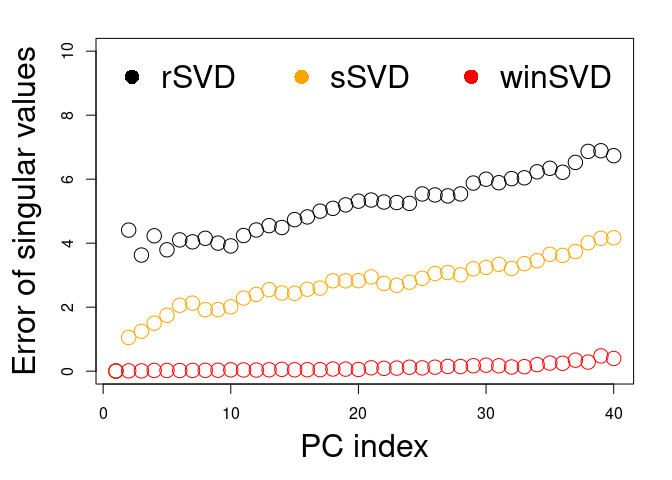
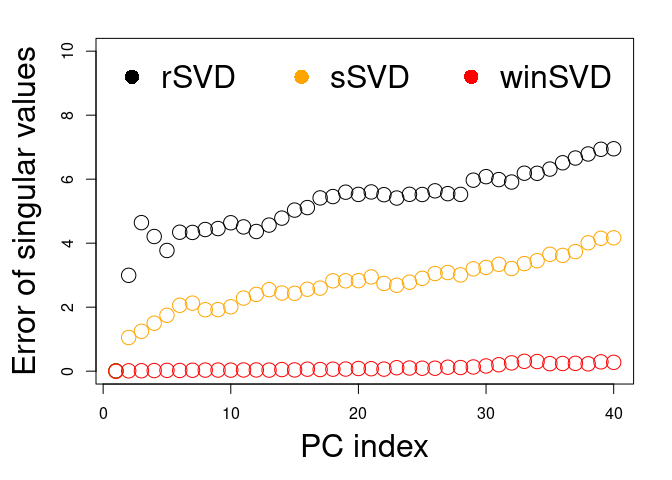
doc data

diff --git a/README.md b/README.md
@@ -8,11 +8,12 @@
 There are 3 versions of RSVD implemented in this package, which are
 ordered by their accuracy.
 
-  - **winSVD: window based randomized singular value decomposition**
+  - **winSVD**: [window based randomized singular value
+    decomposition](https://genome.cshlp.org/content/33/9/1599)
   - **dashSVD**: randomized singular value decomposition with dynamic
     shifted eigenvalues
-  - **sSVD**: single pass randomized singular value decomposition with
-    power iterations
+  - **sSVD**: [single pass randomized singular value decomposition with
+    power iterations](https://genome.cshlp.org/content/33/9/1599)
 
 <!-- badges: start -->
 
@@ -37,9 +38,9 @@ mat <- matrix(rnorm(100*5000), 5000, 100)
 res <- pcaone(mat, k = 10)
 str(res)
 #> List of 3
-#>  $ d: num [1:10] 79.8 79.7 79 78.8 78.6 ...
-#>  $ u: num [1:5000, 1:10] -0.000154 -0.007631 -0.010643 -0.024208 -0.007177 ...
-#>  $ v: num [1:100, 1:10] -0.1704 -0.0301 0.0467 -0.0239 0.1965 ...
+#>  $ d: num [1:10] 80.3 79.7 79.3 79.2 78.9 ...
+#>  $ u: num [1:5000, 1:10] -0.00671 -0.01336 -0.0143 0.01195 0.00831 ...
+#>  $ v: num [1:100, 1:10] 0.1466 0.1119 0.1024 0.2006 0.0736 ...
 #>  - attr(*, "class")= chr "pcaone"
 ```
 
@@ -54,16 +55,16 @@ A <- popgen - rowMeans(popgen) ## center
 k <- 40
 system.time(s0 <- RSpectra::svds(A, k = k) )
 #>    user  system elapsed 
-#>  28.853  21.787   2.764
+#>  27.916   1.570   1.237
 system.time(s1 <- rsvd::rsvd(A, k = k, q = 4))
 #>    user  system elapsed 
-#>   9.186  18.886   1.421
+#>   9.673  18.263   1.645
 system.time(s2 <- pcaone(A, k = k, method = "ssvd"))
 #>    user  system elapsed 
-#>  17.434  37.939   3.841
+#>  17.052  33.534   3.838
 system.time(s3 <- pcaone(A, k = k, method = "winsvd"))
 #>    user  system elapsed 
-#>  44.085 133.619  10.006
+#>  40.115 120.547   9.508
 
 par(mar = c(5, 5, 2, 2))
 plot(s0$d-s1$d, ylim = c(0, 10), xlab = "PC index", ylab = "Error of singular values", cex = 2, cex.lab = 2)
